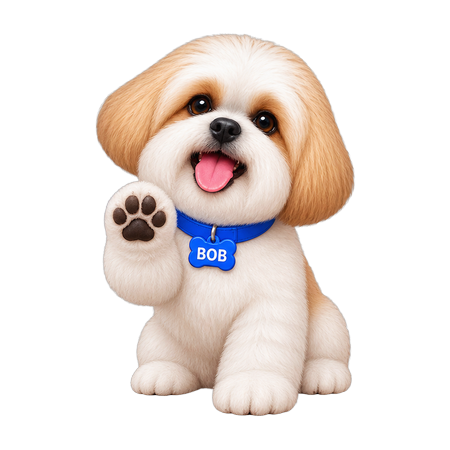
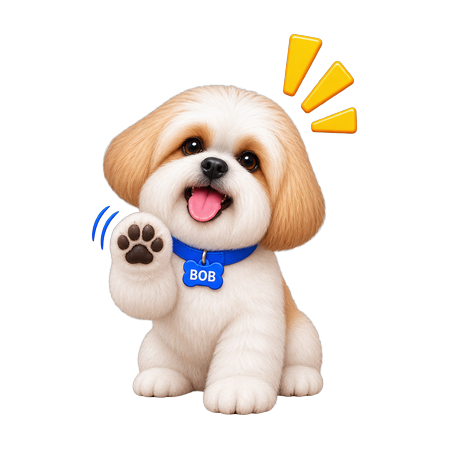
Corrige a mascote 'atencao': a extracao anterior isolava so o maior componente conectado, descartando sem querer as exclamacoes amarelas e as linhas de movimento (rosa/azul) que ficam como elementos separados na prancha. Agora recorta a regiao inteira de cada lado (bounding box combinado de todos os

Changed region(s): [[0.1867, 0.0622, 0.8089, 0.9333]]

diff --git a/web/src/utils/versao.js b/web/src/utils/versao.js
@@ -1,4 +1,4 @@
 // Atualizo esse número toda vez que envio uma mudança —
 // serve pra você confirmar se o app realmente atualizou no celular.
-export const VERSAO = '1.39.3';
-export const VERSAO_DESCRICAO = 'Nova mascote "atencao" (acenando) no popup de estoque acabando, no lugar da standby';
+export const VERSAO = '1.39.4';
+export const VERSAO_DESCRICAO = 'Mascote atencao agora inclui as exclamacoes e linhas de movimento decorativas';
